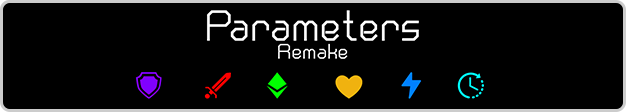
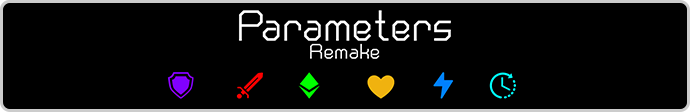
Fixed Image

diff --git a/stylesheets/stylesheet.css b/stylesheets/stylesheet.css
@@ -567,7 +567,8 @@ aside a.button {
 
 div a.projbutton {
   display: block;
-  width: 626px;
+  width: 690px;
+  height: 118px;
   padding-left: 64px;
   margin-bottom: 20px;
   font-size: 21px;
